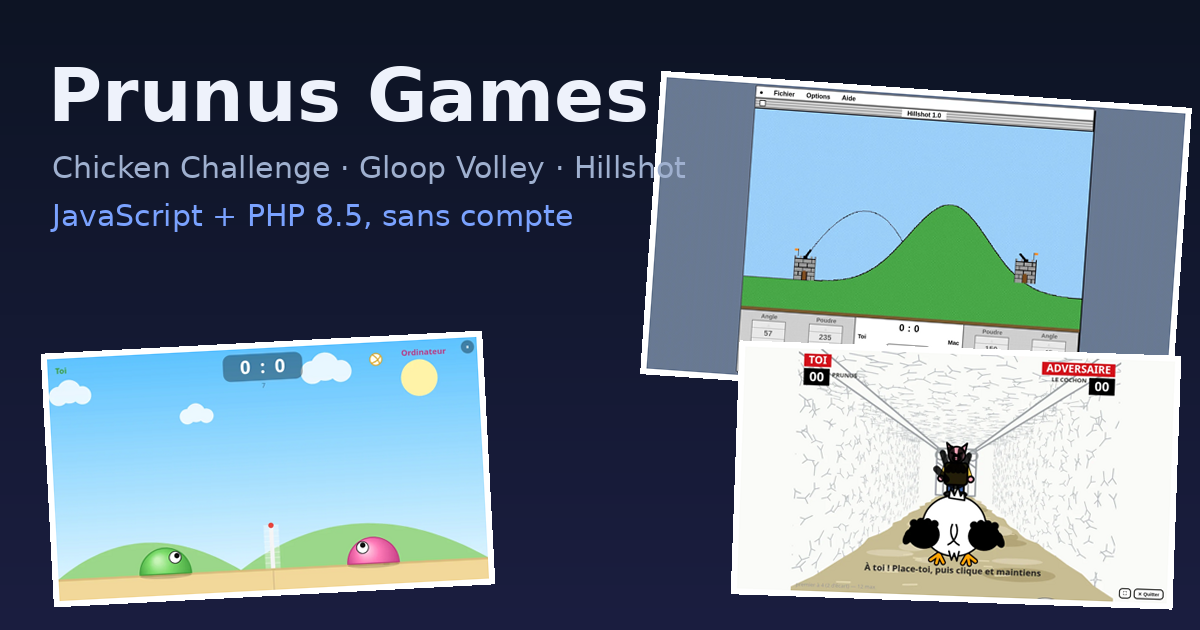
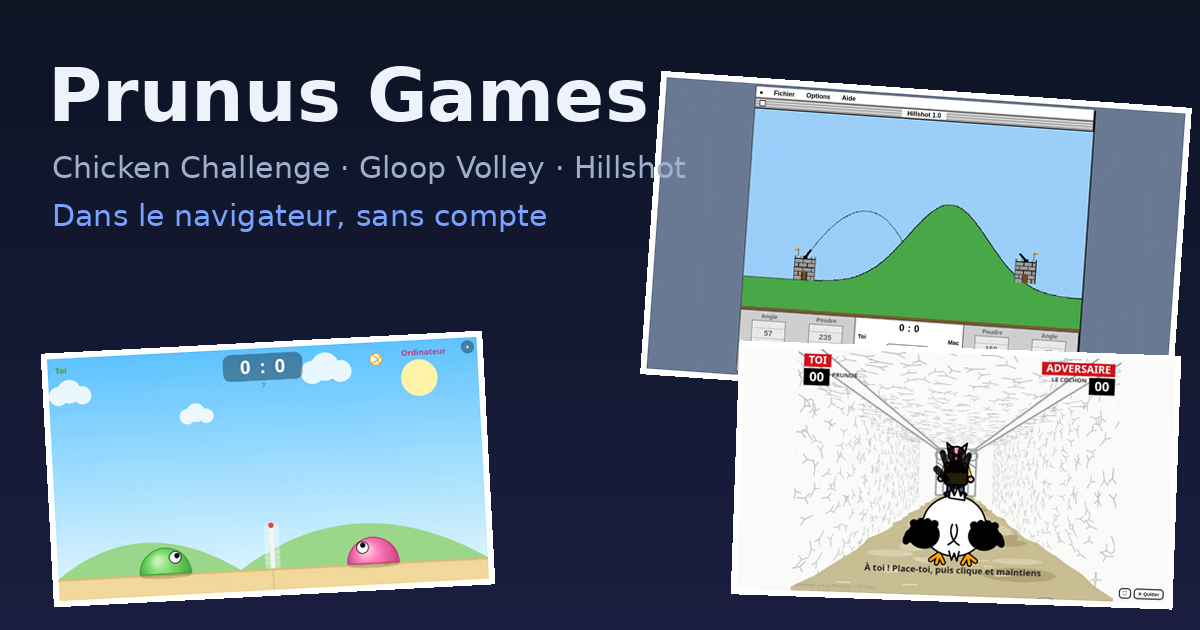
Simplify the page: drop the under-the-hood section and technical wording

Changed region(s): [[0.0308, 0.3016, 0.4933, 0.3619]]

diff --git a/js/main.js b/js/main.js
@@ -3,47 +3,33 @@ export const DICT = {
   fr: {
     skip: 'Aller aux jeux',
     eyebrow: 'prunus.dev · jeux',
-    heroTitle: 'Des petits jeux, <em>un vrai serveur.</em>',
-    heroLead: 'Trois jeux à jouer dans le navigateur : contre l\'ordinateur, à deux sur le même écran ou en ligne avec classement. JavaScript côté client, PHP 8.5 côté serveur, sans framework et sans compte.',
-    factGames: 'jeux en ligne',
+    heroTitle: 'Trois jeux, <em>aucune installation.</em>',
+    heroLead: 'Des jeux à lancer directement dans le navigateur, sur téléphone comme sur ordinateur : contre l\'ordinateur, à deux sur le même écran ou en ligne avec classement. Pas de compte, pas de pub.',
+    factGames: 'jeux à essayer',
     factAccounts: 'compte à créer',
-    factTick: 'serveur autoritaire',
-    factPhp: 'côté serveur',
+    factLang: 'au choix',
+    factBrowser: 'dans le navigateur',
     ctaPlay: 'Choisir un jeu',
     gamesTitle: 'Les jeux',
     badgeNew: 'Nouveau',
     play: 'Jouer',
     code: 'Code source',
     hillKind: 'Duel d\'artillerie · tour par tour',
-    hillText: 'Deux châteaux, une colline qui change à chaque manche, un vent que seul le drapeau rouge trahit. Réglez l\'angle et la poudre, tirez, puis lisez la trace de votre obus pour corriger. Inspiré du shareware Macintosh de 1989, habillage Système 7 compris.',
-    gloopKind: 'Volley · 60 images par seconde',
-    gloopText: 'Le volley des gloops : deux demi-disques, un filet, un ballon, et le premier à sept points gagne. En ligne, le serveur fait tourner la partie à 60 Hz et les navigateurs n\'envoient que leurs touches.',
+    hillText: 'Deux châteaux, une colline qui change à chaque manche, un vent que seul le drapeau rouge trahit. Réglez l\'angle et la poudre, tirez, puis lisez la trace de votre obus pour corriger. Inspiré d\'un shareware Macintosh de 1989, habillage Système 7 compris.',
+    gloopKind: 'Volley · deux gloops, un filet',
+    gloopText: 'Le volley des gloops : deux demi-disques, un filet, un ballon, et le premier à sept points gagne. Contre l\'ordinateur, à deux sur le même écran ou en ligne contre un autre joueur.',
     chickenKind: 'Arcade · lancer de poules',
-    chickenText: 'Une recréation du Poulaga Challenge : lancez votre poule le long du couloir et rattrapez celle de l\'adversaire. Le serveur arbitre chaque lancer et chaque capture pour que la partie reste honnête.',
+    chickenText: 'Une recréation du Poulaga Challenge : lancez votre poule le long du couloir et rattrapez celle de l\'adversaire. Chaque lancer est vérifié pour que la partie reste honnête.',
     tagTurn: 'Tour par tour',
     tagWind: 'Vent et colline aléatoires',
     tagAi: 'Contre l\'ordinateur',
     tagAi3: 'IA, 3 niveaux',
     tagLocal: '2 joueurs, même écran',
     tagOnline: 'En ligne · classement Elo',
-    tagReal: 'Physique à 60 Hz',
+    tagFirst: 'Premier à 7 points',
     tagTouch: 'Clavier et tactile',
     tagArcade: 'Lancers et captures',
-    tagAnti: 'Anti-triche côté serveur',
-    underTitle: 'Sous le capot',
-    underLead: 'Les trois jeux partagent le même socle : un serveur WebSocket écrit à la main en PHP pur, qui arbitre les parties et tient le classement.',
-    flowBrowser: 'Navigateur',
-    flowServer: 'Serveur de jeu',
-    flowRanking: 'Classement',
-    flowRankingSub: 'Elo · fichier JSON atomique',
-    p1Title: 'Un serveur arbitre',
-    p1Text: 'Un client ne peut envoyer ni score, ni position, ni trajectoire : seulement ses touches ou son réglage de tir.',
-    p2Title: 'Un moteur, deux langages',
-    p2Text: 'Les règles existent en JavaScript et en PHP ; des parties enregistrées vérifient que les deux donnent exactement les mêmes résultats.',
-    p3Title: 'Aucun compte',
-    p3Text: 'L\'identité est un jeton secret gardé par le navigateur, dont le serveur ne conserve que l\'empreinte. Le classement Elo freine la collusion.',
-    p4Title: 'Un socle partagé',
-    p4Text: 'Le serveur WebSocket et ses utilitaires vivent dans un paquet Composer commun, testé une fois et réutilisé par chaque jeu.',
+    tagAnti: 'Anti-triche',
     madeBy: 'Fait par Prunus',
     license: 'Licence MIT',
     pageSource: 'Code de cette page',
@@ -51,47 +37,33 @@ export const DICT = {
   en: {
     skip: 'Skip to the games',
     eyebrow: 'prunus.dev · games',
-    heroTitle: 'Small games, <em>one real server.</em>',
-    heroLead: 'Three games you play in the browser: against the computer, two on the same screen, or online with a leaderboard. JavaScript on the client, PHP 8.5 on the server, no framework and no account.',
-    factGames: 'games online',
+    heroTitle: 'Three games, <em>nothing to install.</em>',
+    heroLead: 'Games you launch straight from the browser, on a phone or on a computer: against the computer, two on the same screen, or online with a leaderboard. No account, no ads.',
+    factGames: 'games to try',
     factAccounts: 'account to create',
-    factTick: 'authoritative server',
-    factPhp: 'on the server',
+    factLang: 'your choice',
+    factBrowser: 'in the browser',
     ctaPlay: 'Pick a game',
     gamesTitle: 'The games',
     badgeNew: 'New',
     play: 'Play',
     code: 'Source code',
     hillKind: 'Artillery duel · turn-based',
-    hillText: 'Two castles, a hill that changes every round, and a wind that only the red flag gives away. Set the angle and the powder, fire, then read the trace of your shell to correct. Inspired by the 1989 Macintosh shareware, System 7 look included.',
-    gloopKind: 'Volleyball · 60 frames per second',
-    gloopText: 'Volleyball for gloops: two half-discs, a net, a ball, first to seven points wins. Online, the server runs the match at 60 Hz and the browsers only send their keys.',
+    hillText: 'Two castles, a hill that changes every round, and a wind that only the red flag gives away. Set the angle and the powder, fire, then read the trace of your shell to correct. Inspired by a 1989 Macintosh shareware, System 7 look included.',
+    gloopKind: 'Volleyball · two gloops, one net',
+    gloopText: 'Volleyball for gloops: two half-discs, a net, a ball, first to seven points wins. Against the computer, two on the same screen, or online against another player.',
     chickenKind: 'Arcade · chicken throwing',
-    chickenText: 'A recreation of the Poulaga Challenge: throw your chicken down the corridor and catch your opponent\'s. The server referees every throw and every catch to keep the game honest.',
+    chickenText: 'A recreation of the Poulaga Challenge: throw your chicken down the corridor and catch your opponent\'s. Every throw is checked so the game stays fair.',
     tagTurn: 'Turn-based',
     tagWind: 'Random hill and wind',
     tagAi: 'Against the computer',
     tagAi3: 'AI, 3 levels',
     tagLocal: '2 players, same screen',
     tagOnline: 'Online · Elo leaderboard',
-    tagReal: '60 Hz physics',
+    tagFirst: 'First to 7 points',
     tagTouch: 'Keyboard and touch',
     tagArcade: 'Throws and catches',
-    tagAnti: 'Server-side anti-cheat',
-    underTitle: 'Under the hood',
-    underLead: 'All three games share the same foundation: a WebSocket server written by hand in plain PHP, which referees the matches and keeps the leaderboard.',
-    flowBrowser: 'Browser',
-    flowServer: 'Game server',
-    flowRanking: 'Leaderboard',
-    flowRankingSub: 'Elo · atomic JSON file',
-    p1Title: 'A refereeing server',
-    p1Text: 'A client cannot send a score, a position or a trajectory: only its keys or its shot settings.',
-    p2Title: 'One engine, two languages',
-    p2Text: 'The rules exist in JavaScript and in PHP; recorded matches check that both give exactly the same results.',
-    p3Title: 'No account',
-    p3Text: 'Identity is a secret token kept by the browser, of which the server only stores the hash. The Elo ranking slows collusion down.',
-    p4Title: 'A shared foundation',
-    p4Text: 'The WebSocket server and its helpers live in a common Composer package, tested once and reused by every game.',
+    tagAnti: 'Anti-cheat',
     madeBy: 'Made by Prunus',
     license: 'MIT license',
     pageSource: 'Source of this page',
@@ -145,7 +117,7 @@ if (typeof document !== 'undefined') {
   document.querySelector('#lang').addEventListener('click', () => applyLang(lang === 'fr' ? 'en' : 'fr'));
   document.querySelector('#theme').addEventListener('click', () => applyTheme(currentTheme() === 'dark' ? 'light' : 'dark'));
 
-  const items = document.querySelectorAll('.card, .pillars article, .node, .hero-text > *, .hero-art');
+  const items = document.querySelectorAll('.card, .hero-text > *, .hero-art');
   items.forEach((el) => el.classList.add('reveal'));
   if ('IntersectionObserver' in window && !matchMedia('(prefers-reduced-motion: reduce)').matches) {
     const io = new IntersectionObserver((entries) => {

diff --git a/css/style.css b/css/style.css
@@ -86,7 +86,6 @@ main { width: min(1180px, 100% - 40px); margin: 0 auto; }
 h1 { margin: 0; font-size: clamp(38px, 7vw, 76px); line-height: 1.02; letter-spacing: -0.03em; font-weight: 800; text-wrap: balance; }
 h1 em { font-style: normal; background: linear-gradient(100deg, var(--brand), #ff7ab8 55%, #ffb224); -webkit-background-clip: text; background-clip: text; color: transparent; }
 .lead { margin: 22px 0 0; max-width: 62ch; font-size: clamp(17px, 2.2vw, 20px); color: var(--muted); text-wrap: pretty; }
-.lead.small { font-size: 17px; }
 .facts { display: flex; flex-wrap: wrap; gap: 12px 34px; list-style: none; margin: 34px 0 0; padding: 0; }
 .facts li { display: flex; flex-direction: column; }
 .facts b { font-size: 26px; letter-spacing: -0.02em; }
@@ -124,25 +123,6 @@ h3 { margin: 2px 0 8px; font-size: clamp(26px, 3.4vw, 38px); line-height: 1.1; l
 .btn.primary { background: var(--accent); border-color: transparent; color: #fff; box-shadow: 0 12px 26px -12px var(--accent); }
 .btn.primary:hover { filter: brightness(1.07); background: var(--accent); }
 
-/* ---------- sous le capot ---------- */
-.under { padding: clamp(40px, 6vw, 72px) 0 clamp(56px, 8vw, 96px); border-top: 1px solid var(--line); }
-h2 { margin: 0 0 10px; font-size: clamp(28px, 4.2vw, 44px); letter-spacing: -0.025em; line-height: 1.08; }
-.flow { display: grid; grid-template-columns: 1fr auto 1fr auto 1fr; align-items: stretch; gap: 0; margin: 38px 0 30px; }
-.node { display: flex; flex-direction: column; justify-content: center; gap: 4px; padding: 20px 22px; background: var(--card); border: 1px solid var(--line); border-radius: 18px; }
-.node b { font-size: 17px; }
-.node span { font-size: 13px; color: var(--muted); }
-.node.strong { background: linear-gradient(135deg, color-mix(in srgb, var(--brand) 26%, var(--card)), var(--card)); border-color: color-mix(in srgb, var(--brand) 50%, var(--line)); }
-.node a { color: var(--brand); font-weight: 700; }
-.link { display: grid; place-items: center; min-width: 74px; position: relative; font-size: 11.5px; font-weight: 700; letter-spacing: 0.08em; text-transform: uppercase; color: var(--muted); }
-.link::before { content: ''; position: absolute; left: 6px; right: 6px; top: 50%; border-top: 2px dashed color-mix(in srgb, var(--brand) 55%, transparent); }
-.link span { position: relative; padding: 2px 8px; background: var(--bg); border-radius: 999px; }
-.pillars { display: grid; grid-template-columns: repeat(4, minmax(0, 1fr)); gap: 16px; }
-.pillars article { padding: 22px; background: var(--card); border: 1px solid var(--line); border-radius: 18px; }
-.pillars h3 { margin: 0 0 8px; font-size: 18px; letter-spacing: -0.01em; }
-.pillars p { margin: 0; font-size: 14.5px; color: var(--muted); }
-.stack { display: flex; flex-wrap: wrap; gap: 8px; list-style: none; margin: 30px 0 0; padding: 0; }
-.stack li { padding: 5px 13px; border-radius: 10px; font-size: 13px; font-weight: 600; font-family: ui-monospace, SFMono-Regular, Menlo, Consolas, monospace; background: var(--bg-2); border: 1px solid var(--line); color: var(--muted); }
-
 .foot { width: min(1180px, 100% - 40px); margin: 0 auto; padding: 26px 0 calc(40px + env(safe-area-inset-bottom)); border-top: 1px solid var(--line); font-size: 14px; color: var(--muted); display: flex; justify-content: space-between; flex-wrap: wrap; gap: 8px 24px; }
 .foot p { margin: 0; }
 .foot a { color: var(--ink); text-decoration-color: var(--line); text-underline-offset: 3px; }
@@ -159,13 +139,8 @@ h2 { margin: 0 0 10px; font-size: clamp(28px, 4.2vw, 44px); letter-spacing: -0.0
   .card::before, .card:nth-of-type(even)::before { inset: 0 0 auto 0; width: auto; height: 4px; }
   .hero { grid-template-columns: 1fr; }
   .hero-art { max-width: 560px; width: 100%; margin: 0 auto; }
-  .pillars { grid-template-columns: repeat(2, minmax(0, 1fr)); }
-  .flow { grid-template-columns: 1fr; }
-  .link { min-height: 44px; }
-  .link::before { left: 50%; right: auto; top: 4px; bottom: 4px; border-top: 0; border-left: 2px dashed color-mix(in srgb, var(--brand) 55%, transparent); }
 }
 @media (max-width: 520px) {
-  .pillars { grid-template-columns: 1fr; }
   .facts { gap: 14px 26px; }
   .hero-art { aspect-ratio: 1 / 0.98; }
   .actions .btn { flex: 1 1 auto; justify-content: center; }

diff --git a/index.html b/index.html
@@ -4,11 +4,11 @@
   <meta charset="utf-8">
   <meta name="viewport" content="width=device-width, initial-scale=1, viewport-fit=cover">
   <title>Prunus Games</title>
-  <meta name="description" content="Trois jeux dans le navigateur : Chicken Challenge, Gloop Volley et Hillshot. Contre l'ordinateur, à deux ou en ligne, JavaScript côté client et PHP 8.5 côté serveur.">
+  <meta name="description" content="Trois jeux à jouer dans le navigateur : Chicken Challenge, Gloop Volley et Hillshot. Contre l'ordinateur, à deux ou en ligne, sans compte.">
   <meta name="theme-color" content="#0d1424">
   <meta property="og:type" content="website">
   <meta property="og:title" content="Prunus Games">
-  <meta property="og:description" content="Chicken Challenge, Gloop Volley, Hillshot : trois jeux dans le navigateur, avec un vrai serveur multijoueur PHP 8.5.">
+  <meta property="og:description" content="Chicken Challenge, Gloop Volley, Hillshot : trois jeux à jouer dans le navigateur, seul, à deux ou en ligne.">
   <meta property="og:image" content="https://games.prunus.dev/assets/og.png">
   <meta property="og:url" content="https://games.prunus.dev/">
   <meta name="twitter:card" content="summary_large_image">
@@ -38,8 +38,8 @@
       <ul class="facts" aria-label="Facts">
         <li><b>3</b><span data-i18n="factGames"></span></li>
         <li><b>0</b><span data-i18n="factAccounts"></span></li>
-        <li><b>60&nbsp;Hz</b><span data-i18n="factTick"></span></li>
-        <li><b>PHP&nbsp;8.5</b><span data-i18n="factPhp"></span></li>
+        <li><b>FR · EN</b><span data-i18n="factLang"></span></li>
+        <li><b>100&nbsp;%</b><span data-i18n="factBrowser"></span></li>
       </ul>
       <a class="cta" href="#games"><span data-i18n="ctaPlay"></span><svg viewBox="0 0 24 24" aria-hidden="true"><path d="M12 4v13m0 0l-5-5m5 5l5-5" fill="none" stroke="currentColor" stroke-width="2.4" stroke-linecap="round" stroke-linejoin="round"/></svg></a>
       </div>
@@ -81,7 +81,7 @@
           <h3>Gloop Volley</h3>
           <p data-i18n="gloopText"></p>
           <ul class="tags">
-            <li data-i18n="tagReal"></li><li data-i18n="tagAi"></li><li data-i18n="tagLocal"></li><li data-i18n="tagOnline"></li><li data-i18n="tagTouch"></li>
+            <li data-i18n="tagFirst"></li><li data-i18n="tagAi"></li><li data-i18n="tagLocal"></li><li data-i18n="tagOnline"></li><li data-i18n="tagTouch"></li>
           </ul>
           <div class="actions">
             <a class="btn primary" href="https://gloopvolley.prunus.dev" target="_blank" rel="noopener"><span data-i18n="play"></span><span aria-hidden="true"> →</span></a>
@@ -107,30 +107,6 @@
           </div>
         </div>
       </article>
-    </section>
-
-    <section class="under" aria-labelledby="under-title">
-      <h2 id="under-title" data-i18n="underTitle"></h2>
-      <p class="lead small" data-i18n="underLead"></p>
-
-      <figure class="flow" aria-label="Architecture">
-        <div class="node"><b data-i18n="flowBrowser"></b><span>JavaScript · Canvas · Web Audio</span></div>
-        <div class="link"><span>WebSocket</span></div>
-        <div class="node strong"><b data-i18n="flowServer"></b><span>PHP 8.5 · PSR · <a href="https://github.com/OpenPrunus/arcade-core" target="_blank" rel="noopener">arcade-core</a></span></div>
-        <div class="link"><span>JSON</span></div>
-        <div class="node"><b data-i18n="flowRanking"></b><span data-i18n="flowRankingSub"></span></div>
-      </figure>
-
-      <div class="pillars">
-        <article><h3 data-i18n="p1Title"></h3><p data-i18n="p1Text"></p></article>
-        <article><h3 data-i18n="p2Title"></h3><p data-i18n="p2Text"></p></article>
-        <article><h3 data-i18n="p3Title"></h3><p data-i18n="p3Text"></p></article>
-        <article><h3 data-i18n="p4Title"></h3><p data-i18n="p4Text"></p></article>
-      </div>
-
-      <ul class="stack" aria-label="Stack">
-        <li>PHP 8.5</li><li>PSR-12</li><li>PHPStan 8</li><li>PHPUnit</li><li>JavaScript</li><li>Canvas</li><li>WebSocket RFC 6455</li><li>Docker</li><li>GitHub Actions</li><li>Elo</li>
-      </ul>
     </section>
   </main>
 

diff --git a/tests/page.test.js b/tests/page.test.js
@@ -15,13 +15,13 @@ test('le français et l\'anglais ont les mêmes clés, toutes non vides, avec le
 
 test('toutes les clés utilisées par la page existent', () => {
   const used = [...html.matchAll(/data-i18n(?:-html)?="(\w+)"/g)].map((m) => m[1]);
-  assert.ok(used.length > 40, `${used.length} clés`);
+  assert.ok(used.length > 30, `${used.length} clés`);
   for (const k of used) assert.ok(k in DICT.fr, `clé inconnue : ${k}`);
 });
 
 test('toutes les ressources locales existent', () => {
   const refs = [...html.matchAll(/(?:src|href)="([^"#:]+)"/g)].map((m) => m[1]).filter((r) => !r.startsWith('/') || r.length > 1);
-  assert.ok(refs.length >= 8);
+  assert.ok(refs.length >= 6);
   for (const r of refs) assert.ok(fs.existsSync(path.join(ROOT, r)), `ressource manquante : ${r}`);
   for (const r of ['assets/og.png', 'favicon.svg']) assert.ok(fs.existsSync(path.join(ROOT, r)), r);
 });
@@ -36,7 +36,7 @@ test('les trois jeux sont présentés, avec leur lien de jeu et leur dépôt', (
 
 test('les liens externes s\'ouvrent dans un nouvel onglet sans donner accès à la page', () => {
   const links = [...html.matchAll(/<a [^>]*href="https?:[^>]*>/g)].map((m) => m[0]);
-  assert.ok(links.length >= 10);
+  assert.ok(links.length >= 8);
   for (const a of links) {
     assert.match(a, /target="_blank"/, a);
     assert.match(a, /rel="[^"]*noopener/, a);
@@ -55,4 +55,11 @@ test('aucun script ni style en ligne (la politique de sécurité du contenu les 
   assert.doesNotMatch(html.replace(/<script type="module" src="[^"]+"><\/script>/g, ''), /<script/);
   assert.doesNotMatch(html, /<style/);
   assert.doesNotMatch(html, /\sstyle="/);
+});
+
+test('la page parle des jeux, pas de leur technique : aucune mention de langage, de serveur ni de « sous le capot »', () => {
+  const visible = html.replace(/<svg[\s\S]*?<\/svg>/g, '') + JSON.stringify(DICT);
+  assert.doesNotMatch(visible, /sous le capot|under the hood/i);
+  assert.doesNotMatch(visible, /\bPHP\b|JavaScript|WebSocket|60\s*Hz|framework|arcade-core/i);
+  assert.equal([...html.matchAll(/<section/g)].length, 2, 'le haut de page et les jeux, rien d\'autre');
 });

diff --git a/README.md b/README.md
@@ -3,10 +3,10 @@
 The landing page of the OpenPrunus games: a static page (HTML, CSS and a little JavaScript, no build step) that presents
 
 - [**Hillshot**](https://github.com/OpenPrunus/hillshot) — a turn-based artillery duel across a hill,
-- [**Gloop Volley**](https://github.com/OpenPrunus/gloop-volley) — slime volleyball with a 60 Hz authoritative server,
+- [**Gloop Volley**](https://github.com/OpenPrunus/gloop-volley) — slime volleyball,
 - [**Chicken Challenge**](https://github.com/OpenPrunus/chicken-challenge) — a chicken-throwing arcade game,
 
-all written in JavaScript on the client and PHP 8.5 on the server, sharing the [`arcade-core`](https://github.com/OpenPrunus/arcade-core) WebSocket foundation.
+playable in the browser, on a phone or a computer, with no account.
 
 French and English (browser language, switchable), light and dark theme (system setting, switchable), responsive down to a phone,
 no tracking, no external request: fonts are the system's, images are local, and a strict Content-Security-Policy is served.
